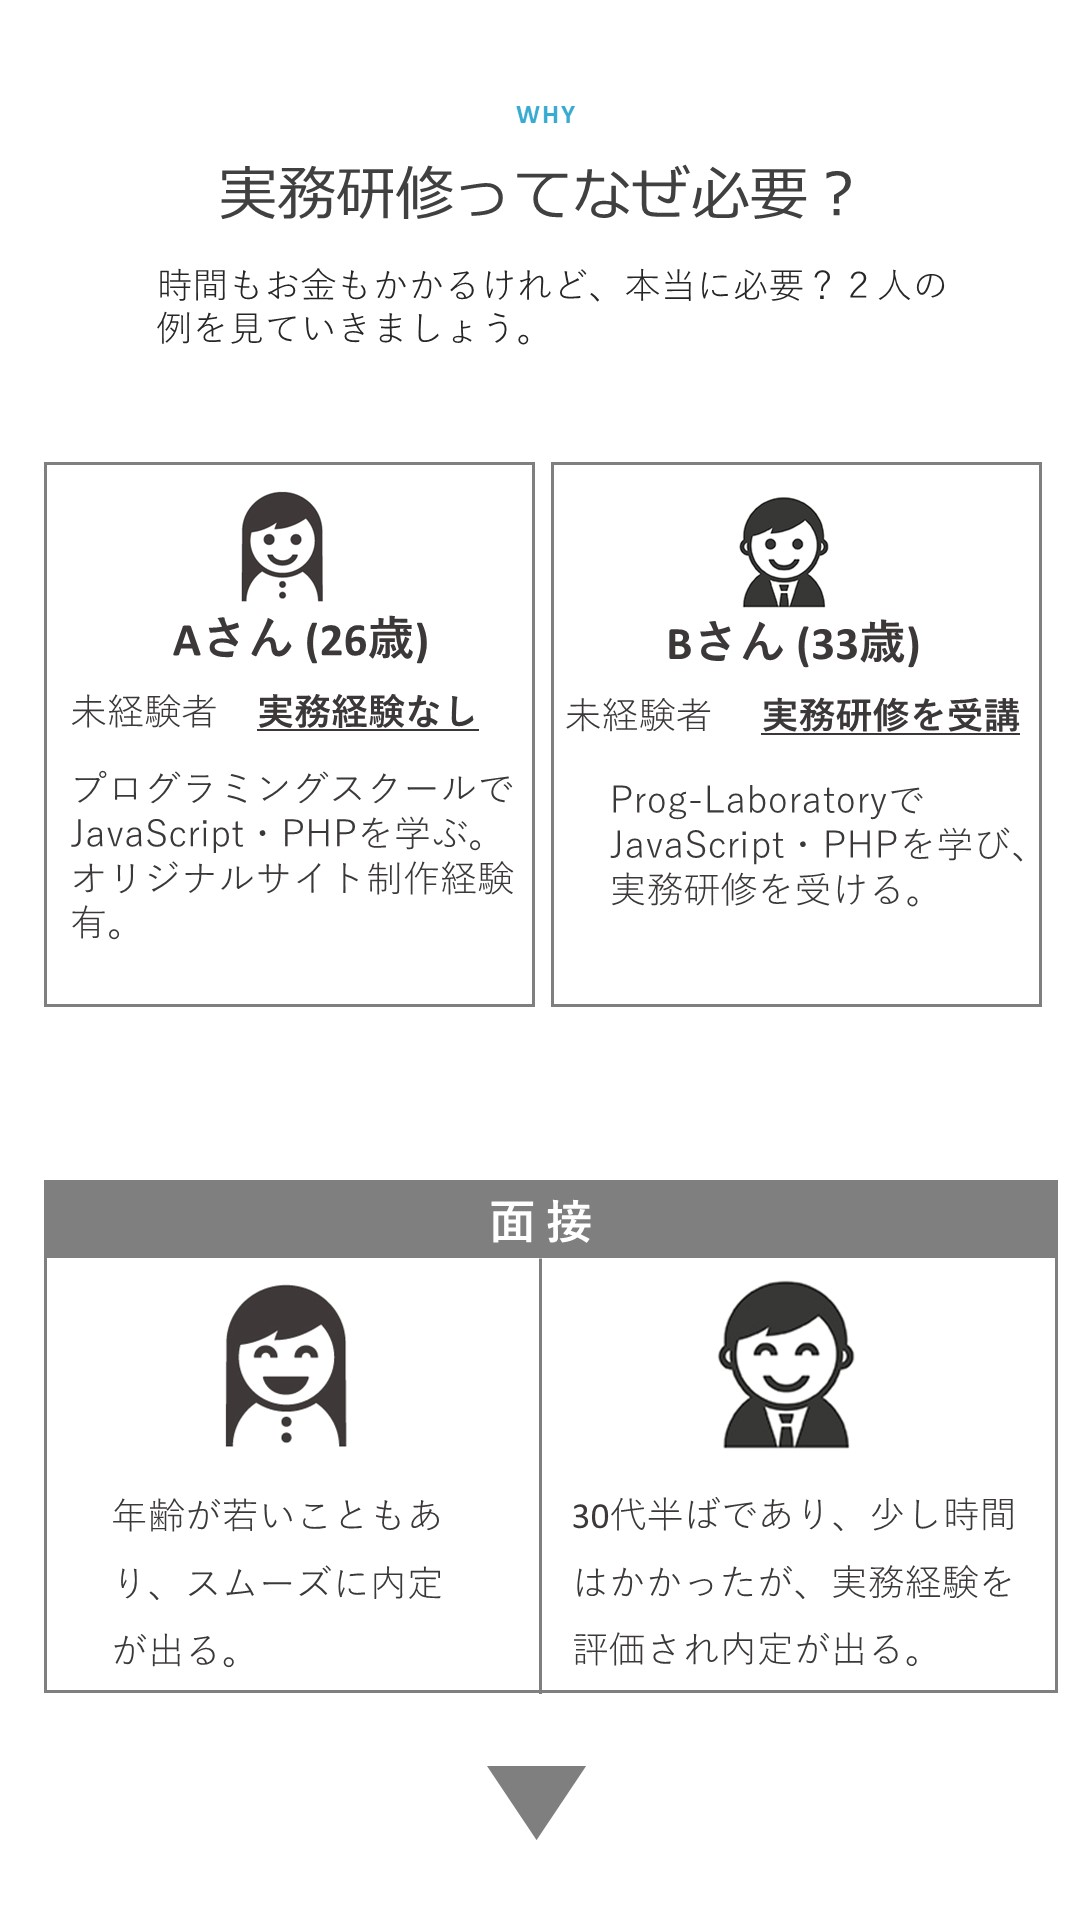
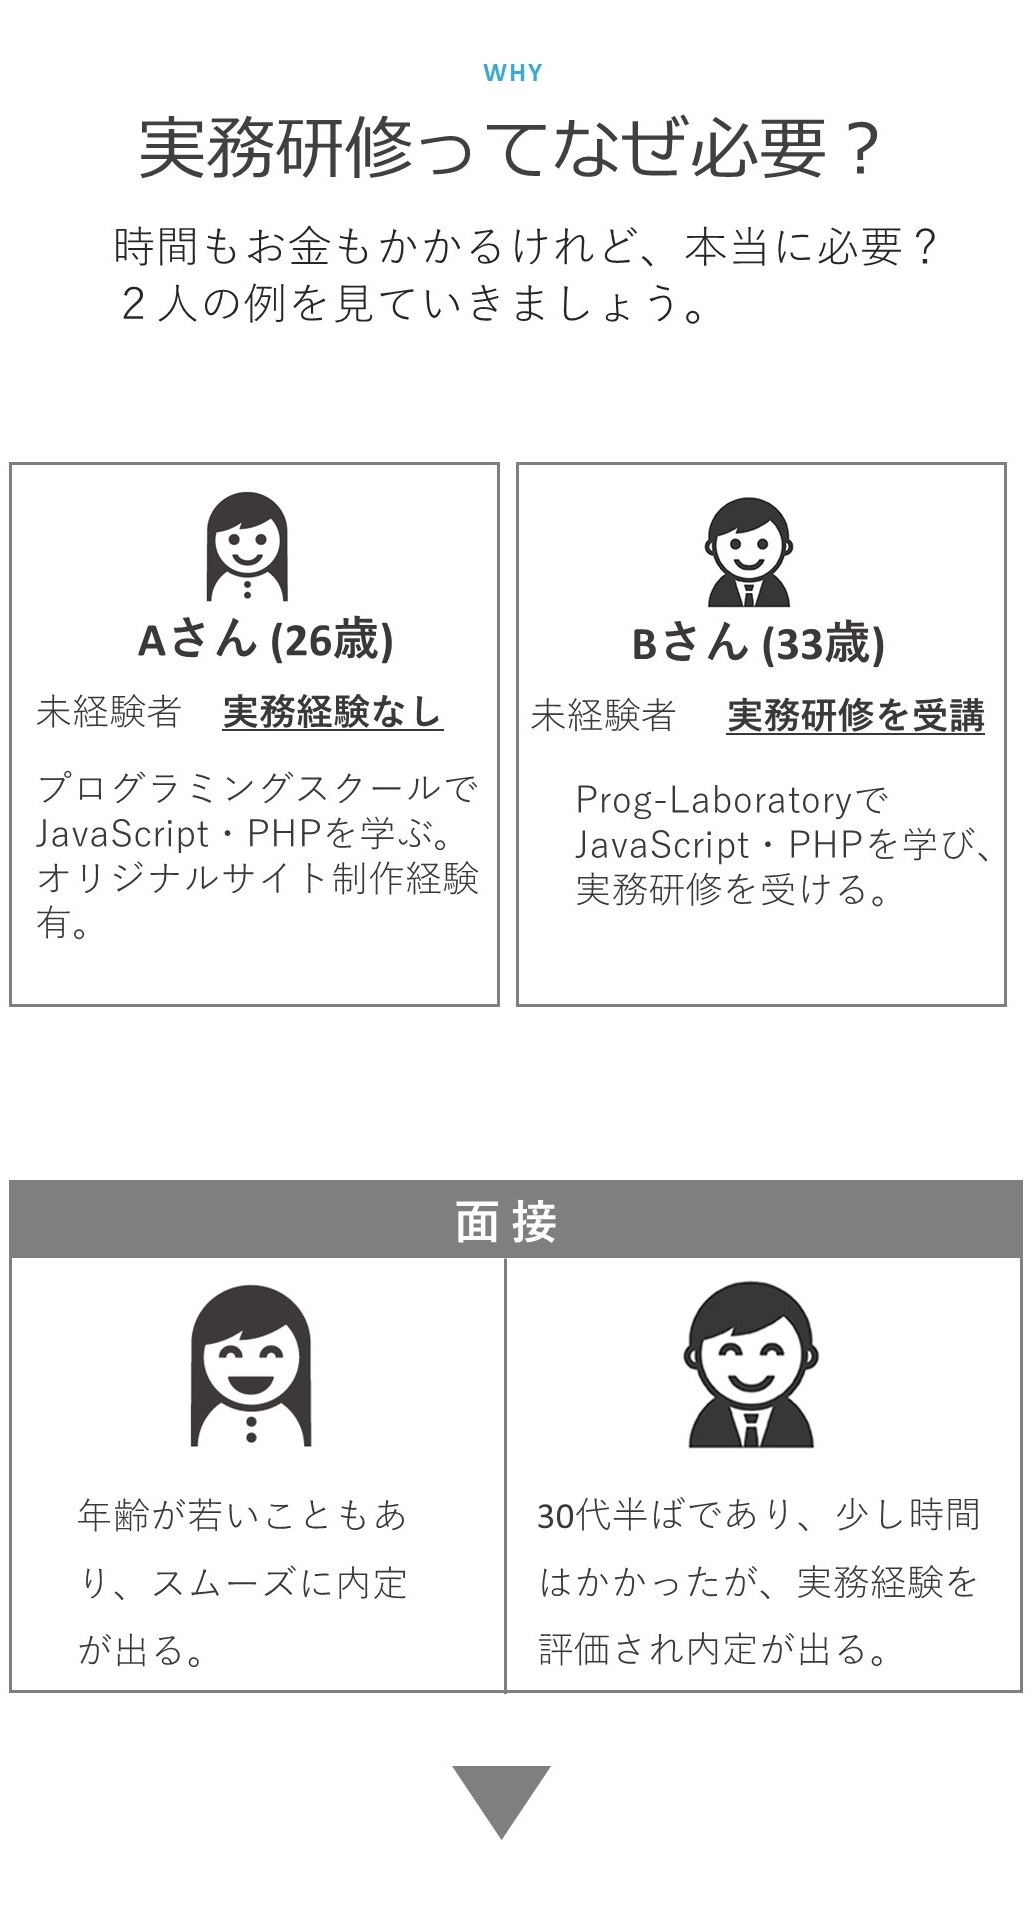
スマホ版コンテンツ追加

diff --git a/consumer/index.html b/consumer/index.html
@@ -155,9 +155,17 @@
 					<img class="pt3 p_dn" src="img/index_img05.JPG" />
 					<img class="mt6 p_dn" src="img/index_img06.JPG" />
 				</div>
+				<div class="mv bgf2">
+					<img src="img/index_img11.jpg" />
+					<div class="s_btn">
+						<a href="#shiryou"><img class="m_btn" src="img/taiken_btn.png" /></a>
+					</div>
+				</div>
 
 				<div id="why">
 					<div class="w80">
+						<img class="s_dn" src="img/mobile_merit1.JPG" />
+						<img class="s_dn" src="img/mobile_merit2.JPG" />
 						<img class="pt3 p_dn" src="img/index_img06why1.JPG">
 						<img class="p_dn" src="img/index_img06why2.JPG">
 						<img class="pt3 p_dn" src="img/index_img06why3.JPG">

diff --git a/consumer/style.css b/consumer/style.css
@@ -75,13 +75,14 @@ div#contents{
 .s_btn{
 	width: 50%;
 	position: absolute;
-	top: 47.5%;
+	top: 37.5%;
 	left: 25%;
 }
 .m_btn{
 	width: 80%;
 	padding-left: 10%;
 }
+
 .voice{
 	width: 15%;
 	margin: 0 auto;
@@ -298,6 +299,10 @@ div#footer{
 
 @media only screen and (max-width: 750px){
 
+.w80{
+	width: 90%;
+	margin: 0 auto;
+}
 .p_dn{
 	display: none;
 }
@@ -305,16 +310,23 @@ div#footer{
 	display: block;
 }
 .logo{
-	width: 40%;
+	width: 50%;
 	top: 0;
 	left: 0;
 }
 .f_btn{
 	top: 73%;
+	width: 60%;
+	left: 20%;
+}
+.s_btn{
+	width: 70%;
+	left: 15%;
 }
 .s_yaji{
 	width: 20%;
 	margin: 0 auto;
+
 }
 .s_pb10{
 	padding-bottom: 10%;
